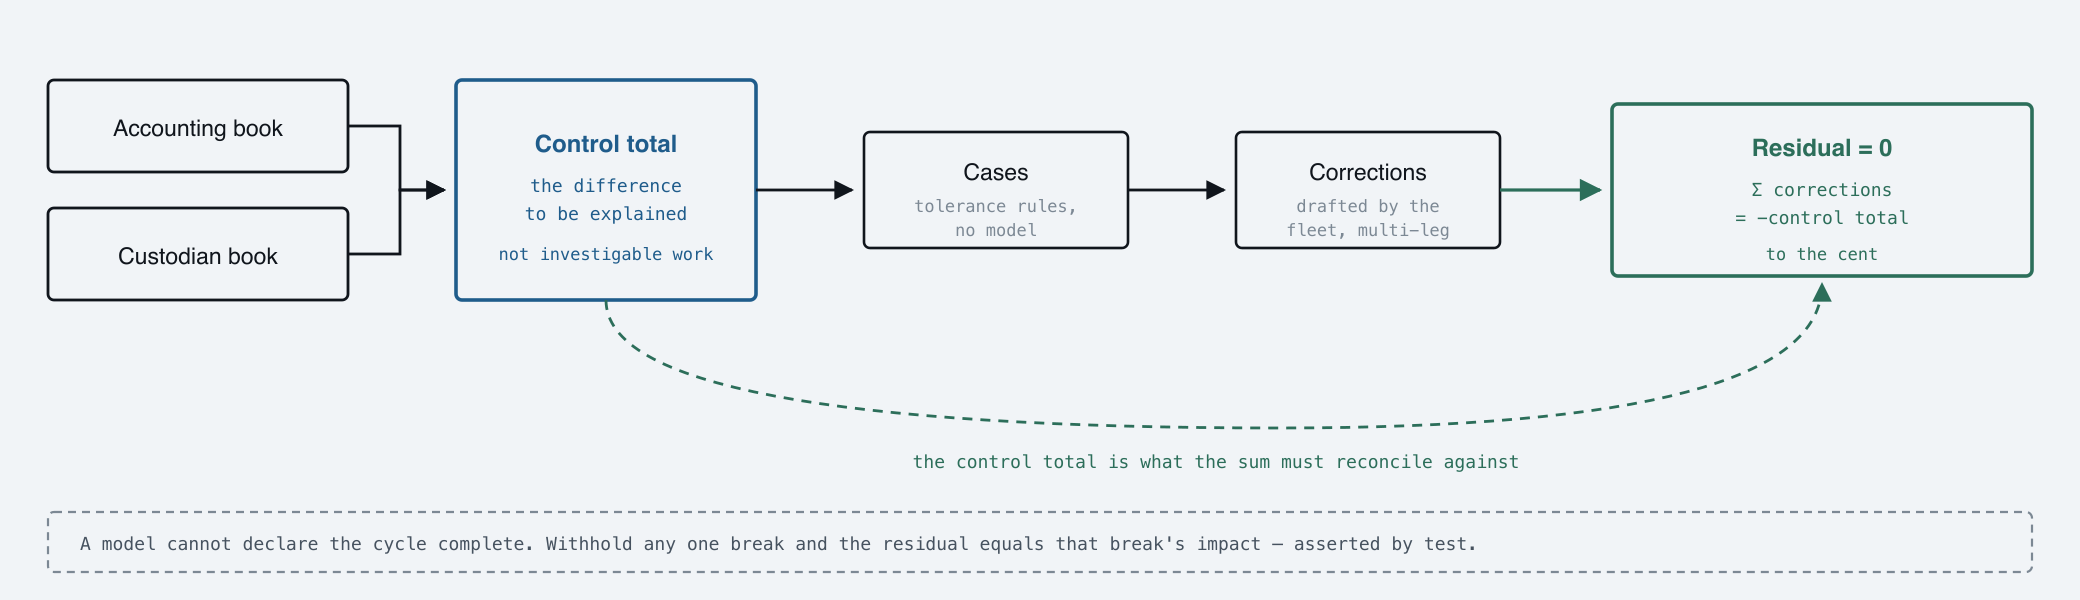
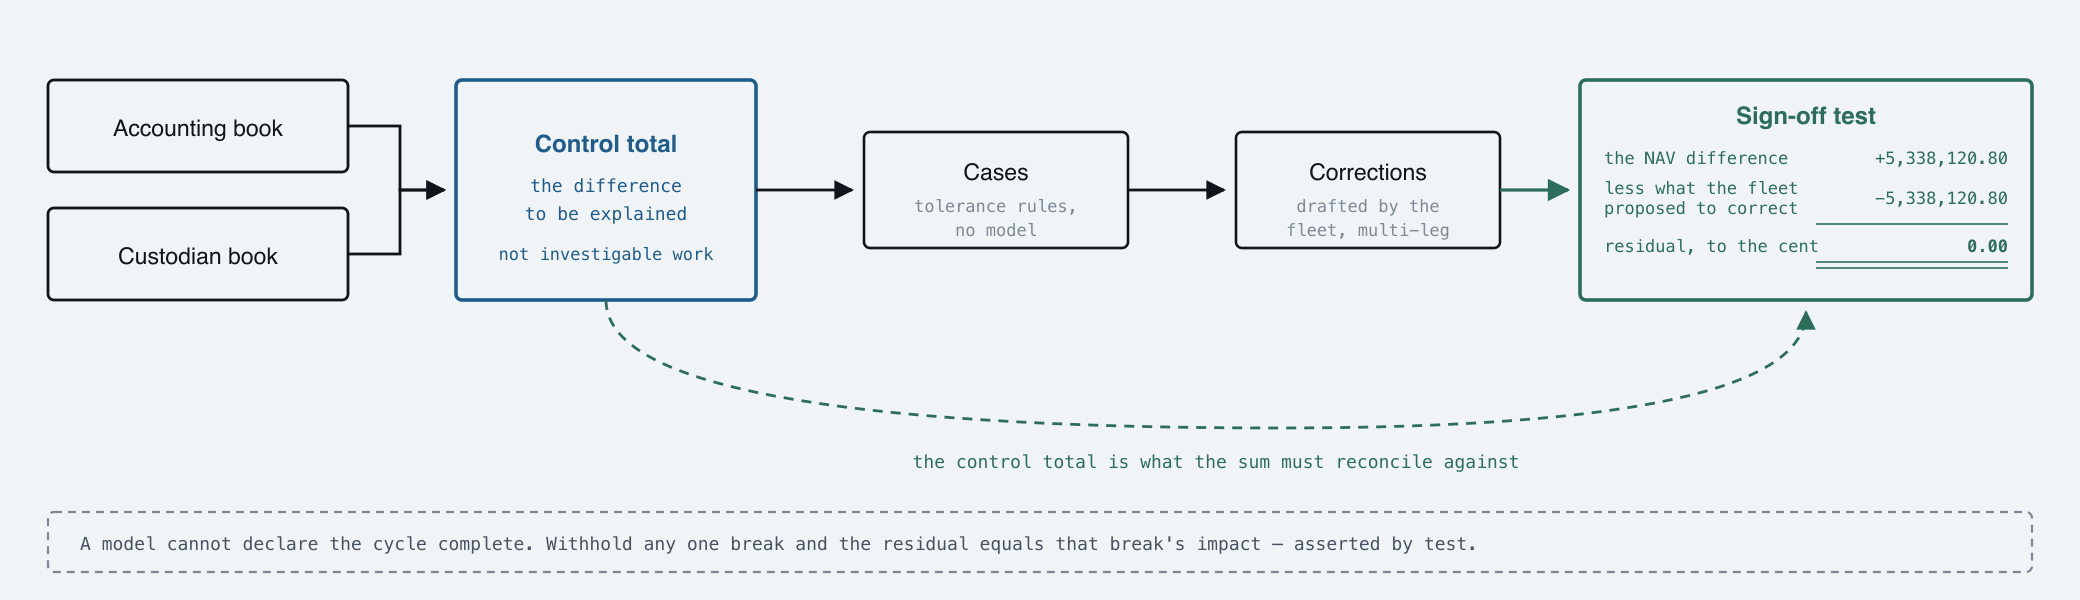
Figure 4: state the closure test as a reconciliation statement
"Σ corrections = −control total / to the cent" was algebra where a fund
accountant expects a statement, and it did not survive a reader asking what
it meant. Rendered now in the form the audience already reads fluently:

    Sign-off test
    the NAV difference                  +5,338,120.80
    less what the fleet proposed        −5,338,120.80
                                        ─────────────
    residual, to the cent                        0.00

with a subtotal rule and a double underline on the result.

Also corrected an honesty problem the new form exposed. Showing 0.00 reads
as a measured result, and the cycle does not currently close: the fixtures'
corrections sum to −129,320.80, not −5,338,120.80, because two trade-date
recognitions were booked without a contra cash leg. The caption now says
plainly that the figure states the test rather than a passing result, and
names the 5,208,800.00 gap as blocker B2.

diff --git a/docs/architecture.html b/docs/architecture.html
@@ -550,11 +550,20 @@ footer {
         <text x="684" y="106" font-family="JetBrains Mono, monospace" font-size="8.5" fill="var(--ink-faint)" text-anchor="middle">drafted by the</text>
         <text x="684" y="118" font-family="JetBrains Mono, monospace" font-size="8.5" fill="var(--ink-faint)" text-anchor="middle">fleet, multi-leg</text>
 
-        <rect x="806" y="52" width="210" height="86" rx="3" fill="none" stroke="var(--closed)" stroke-width="1.8"/>
-        <text x="911" y="78" font-family="Archivo, sans-serif" font-size="12" font-weight="600" fill="var(--closed)" text-anchor="middle">Residual = 0</text>
-        <text x="911" y="98" font-family="JetBrains Mono, monospace" font-size="9" fill="var(--closed)" text-anchor="middle">Σ corrections</text>
-        <text x="911" y="112" font-family="JetBrains Mono, monospace" font-size="9" fill="var(--closed)" text-anchor="middle">= −control total</text>
-        <text x="911" y="130" font-family="JetBrains Mono, monospace" font-size="8.5" fill="var(--closed)" text-anchor="middle">to the cent</text>
+        <rect x="790" y="40" width="226" height="110" rx="3" fill="none" stroke="var(--closed)" stroke-width="1.8"/>
+        <text x="903" y="62" font-family="Archivo, sans-serif" font-size="12" font-weight="600" fill="var(--closed)" text-anchor="middle">Sign-off test</text>
+        <g font-family="JetBrains Mono, monospace" font-size="8.5" fill="var(--closed)">
+          <text x="802" y="82">the NAV difference</text>
+          <text x="1004" y="82" text-anchor="end">+5,338,120.80</text>
+          <text x="802" y="97">less what the fleet</text>
+          <text x="802" y="107">proposed to correct</text>
+          <text x="1004" y="102" text-anchor="end">−5,338,120.80</text>
+          <line x1="908" y1="112" x2="1004" y2="112" stroke="var(--closed)" stroke-width=".8"/>
+          <text x="802" y="126">residual, to the cent</text>
+          <text x="1004" y="126" text-anchor="end" font-weight="700">0.00</text>
+        </g>
+        <line x1="908" y1="131" x2="1004" y2="131" stroke="var(--closed)" stroke-width=".8"/>
+        <line x1="908" y1="134" x2="1004" y2="134" stroke="var(--closed)" stroke-width=".8"/>
 
         <g stroke="currentColor" stroke-width="1.4" fill="none" marker-end="url(#d)">
           <path d="M174 63 H200 V95 H222"/>
@@ -562,16 +571,16 @@ footer {
           <line x1="378" y1="95" x2="426" y2="95"/>
           <line x1="564" y1="95" x2="612" y2="95"/>
         </g>
-        <line x1="750" y1="95" x2="800" y2="95" stroke="var(--closed)" stroke-width="1.6" fill="none" marker-end="url(#dc)" color="var(--closed)"/>
+        <line x1="750" y1="95" x2="784" y2="95" stroke="var(--closed)" stroke-width="1.6" fill="none" marker-end="url(#dc)" color="var(--closed)"/>
 
-        <path d="M303 150 Q303 214 640 214 Q911 214 911 142" stroke="var(--closed)" stroke-width="1.4" fill="none" stroke-dasharray="5 4" marker-end="url(#dc)" color="var(--closed)"/>
+        <path d="M303 150 Q303 214 640 214 Q903 214 903 156" stroke="var(--closed)" stroke-width="1.4" fill="none" stroke-dasharray="5 4" marker-end="url(#dc)" color="var(--closed)"/>
         <text x="608" y="234" font-family="JetBrains Mono, monospace" font-size="9" fill="var(--closed)" text-anchor="middle">the control total is what the sum must reconcile against</text>
 
         <rect x="24" y="256" width="992" height="30" rx="3" fill="none" stroke="var(--ink-faint)" stroke-width="1.1" stroke-dasharray="4 3"/>
         <text x="40" y="275" font-family="JetBrains Mono, monospace" font-size="9" fill="var(--ink-soft)">A model cannot declare the cycle complete. Withhold any one break and the residual equals that break's impact — asserted by test.</text>
       </svg>
     </div>
-    <figcaption><b>The fleet is graded against arithmetic it cannot fudge.</b> Summing the <em>generator's</em> expected corrections would only prove the fixtures are internally consistent; summing the <em>fleet's</em> proposals is what shows the agents produced something. Leg-level correction accuracy and root-cause accuracy are reported beside a non-agentic heuristic baseline on the same cases.</figcaption>
+    <figcaption><b>The fleet is graded against arithmetic it cannot fudge.</b> Every correction is signed as the amount to add to the accounting book, so a cycle closes only when the corrections cancel the whole NAV difference and nothing is left over. A model cannot declare this done — either the statement foots or it does not. Note <em>whose</em> corrections are summed: the generator's expected values would prove only that the fixtures are self-consistent, while the fleet's own proposals are what show the agents produced something. Leg-level correction accuracy and root-cause accuracy are reported beside a non-agentic heuristic baseline on the same cases.<br><br><b>The figure states the test, not a passing result.</b> The control total is real and reproduces exactly; the fixtures do not yet satisfy the test, because two trade-date recognitions were booked without a contra cash leg. That gap is 5,208,800.00 — the unsettled purchase — and it is open as blocker B2.</figcaption>
   </figure>
 </section>
 
